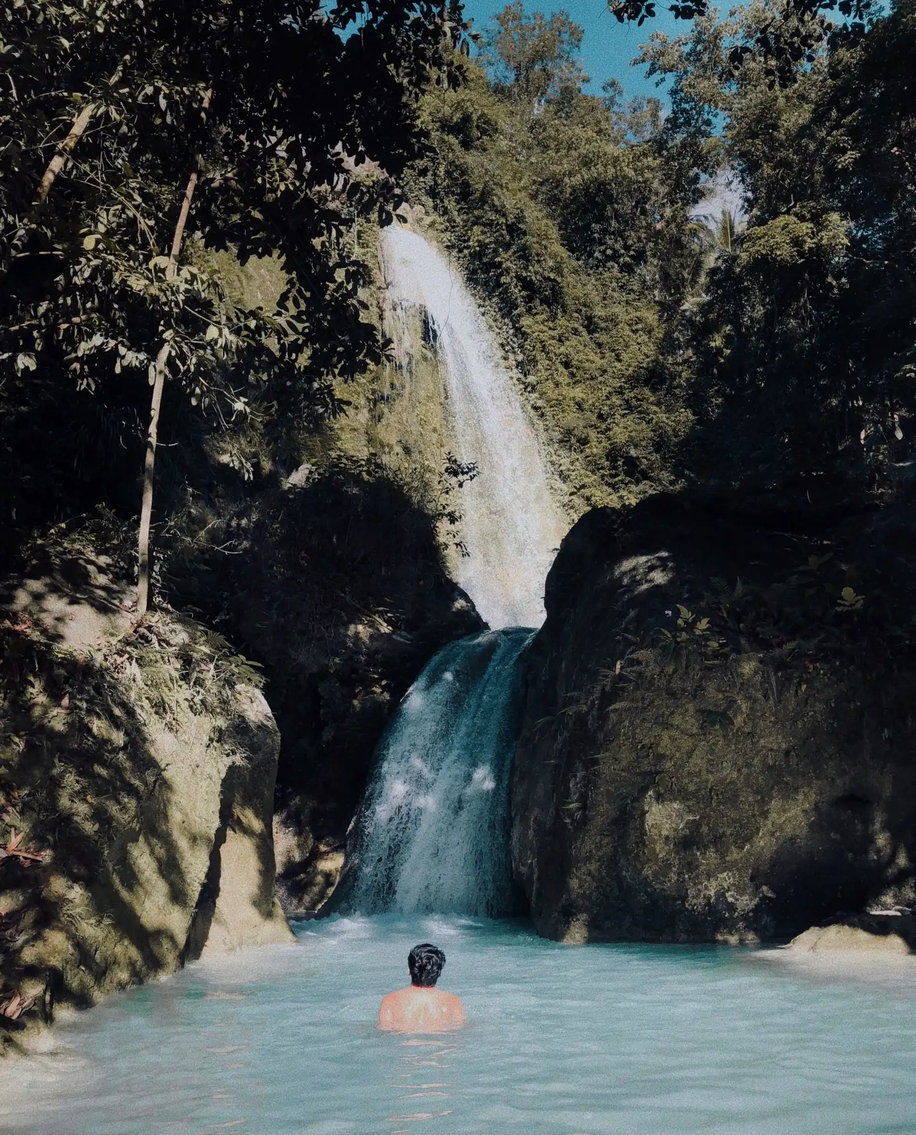
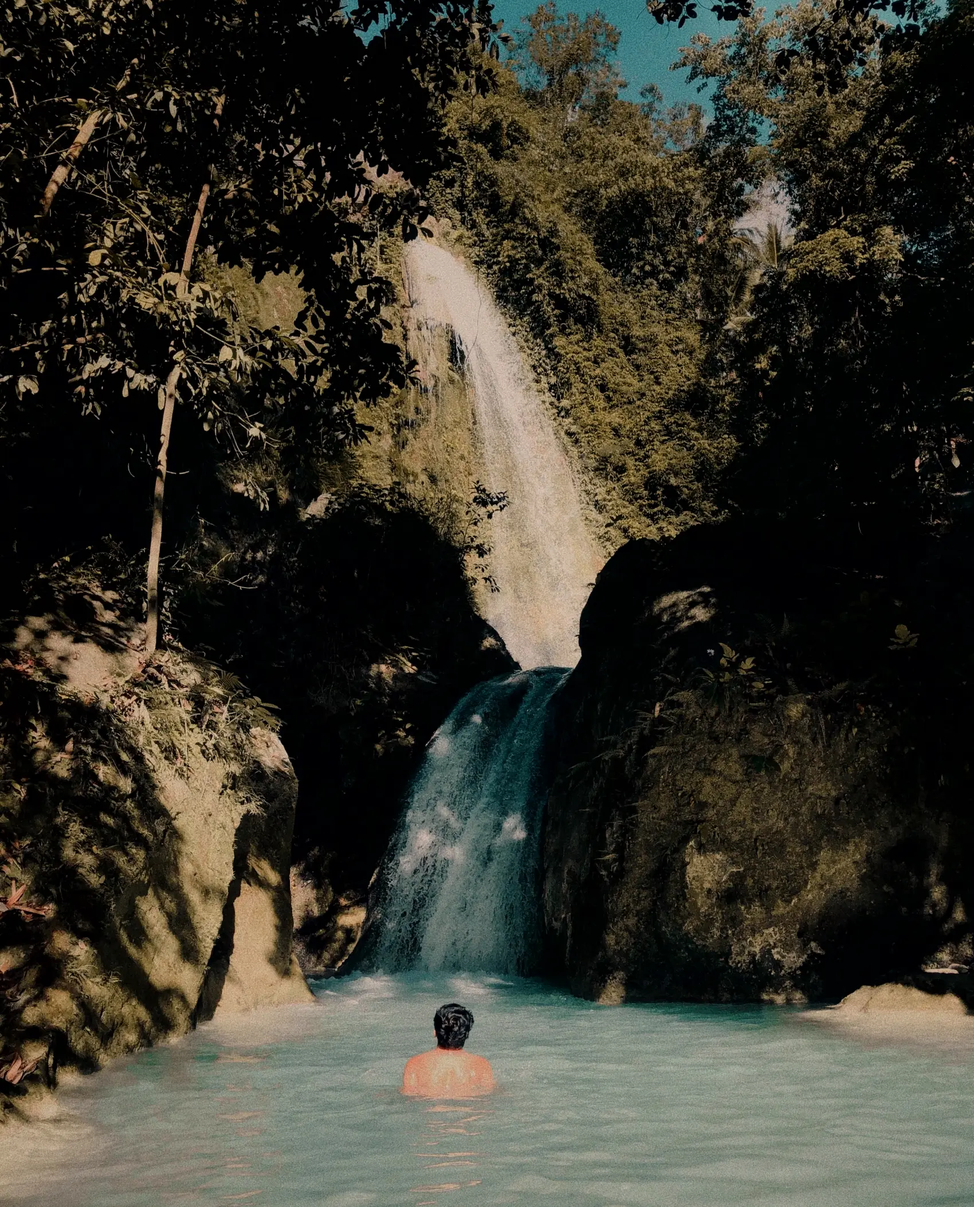
Execute the image system: 7 visuals, 1:1, one grade
Per HotelCompanion__Image_System.md.

Re-fetched at w2560 and re-encoded: giant-tree q46 -> q72/1700 (836KB),
waterfall-swim q54 -> q72/1700 (510KB). Both were used full-bleed and
read soft. Dense foliage will not compress further without visible
artefacts, so 1700px is where quality held.

The single warm-cinematic grade, applied identically to all five stills
via ffmpeg so the set reads as one art-directed world rather than five
stock photos: colortemperature=4700 mix=0.85 for the copper white
balance, eq contrast=1.10 saturation=1.06 brightness=-0.015 for the
lift. Darkening stays in CSS — ~50% centre rising to 90% at the
feathered edges, replacing the previous 16% centre.

Placement is now 1:1 across seven distinct full-bleed visuals:
  hero-coastal-sunset  Home hero (video)
  giant-tree           Home breather
  section-tropical-beach Home mid-page pause (video)
  beach-golden         Home warm breather
  waterfall-swim       Platform — the single breather
  waterfall-lagoon     Enterprise
  beach-dusk-walk      Company emotional peak

Deleted rather than repeated: Platform's second breather and Solutions'
breather. Solutions keeps its existing lobby hero bed.

CTA bands are now darkened stills on every page. Home and Companion OS
were re-running cta-beach-aerial, and Companion OS was re-running
section-tropical-beach — so two of the seven cinematic videos were
appearing three and two times respectively. Video count is now exactly
[…]

diff --git a/src/components/cds/Breather.tsx b/src/components/cds/Breather.tsx
@@ -19,7 +19,7 @@ export function Breather({
   video,
   line,
   height = 'clamp(220px, 38vh, 420px)',
-  darken = 0.16,
+  darken = 0.5,
 }: {
   /** Path under /public, e.g. /assets/breathers/waterfall-swim.webp */
   image: string
@@ -114,10 +114,11 @@ export function Breather({
       <div
         className="absolute inset-0"
         style={{
-          // Only the top and bottom edges are feathered, so the band melts
-          // into the sections either side while the centre stays essentially
-          // uncovered. The first pass scrimmed the middle into a black gap.
-          background: `linear-gradient(180deg, rgba(10,8,7,0.97) 0%, rgba(10,8,7,${darken}) 26%, rgba(10,8,7,${darken}) 74%, rgba(10,8,7,0.97) 100%)`,
+          // The image-system grade: ~50% over the centre rising to ~90% at the
+          // feathered top and bottom edges. The images themselves carry a warm
+          // copper white-balance and a contrast lift, so at this depth they
+          // read as one art-directed world rather than as darkened stock.
+          background: `linear-gradient(180deg, rgba(10,8,7,0.9) 0%, rgba(10,8,7,${darken}) 30%, rgba(10,8,7,${darken}) 70%, rgba(10,8,7,0.9) 100%)`,
         }}
       />
       {line && (

diff --git a/src/app/HomeClient.tsx b/src/app/HomeClient.tsx
@@ -302,7 +302,7 @@ export default function HomeClient() {
         </div>
       </Section>
 
-      <Breather image="/assets/breathers/beach-golden.webp" video="section-tropical-beach" height="clamp(280px, 52vh, 560px)" />
+      <Breather image="/assets/breathers/beach-golden.webp" video="section-tropical-beach" height="clamp(280px, 44vh, 520px)" />
 
       {/* 10 · BOUNDARIES {#home-what-it-is-not-teaser} — statement + link to Enterprise */}
       <Section eyebrow="12 · BOUNDARIES" variant="surface-1" tight>
@@ -355,7 +355,7 @@ export default function HomeClient() {
       </Section>
 
       {/* 13 · FINAL CTA {#home-final-cta} — warm media band */}
-      <MediaBed video="cta-beach-aerial" poster="/assets/img/cta-beach-aerial-poster.webp" scrim={0.72}>
+      <MediaBed poster="/assets/img/ambient-palms-night.webp" scrim={0.72}>
         <section className="py-24 md:py-36">
           <div className="container-rc">
             <Reveal>

diff --git a/src/app/solutions/SolutionsClient.tsx b/src/app/solutions/SolutionsClient.tsx
@@ -265,8 +265,6 @@ export default function SolutionsClient() {
       </Section>
 
       {/* 03 · COMPANION OS {#solutions-companion-os} — capability surface */}
-      <Breather image="/assets/breathers/beach-golden.webp" />
-
       <Section
         id="solutions-companion-os"
         eyebrow="03 · COMPANION OS"
@@ -298,7 +296,7 @@ export default function SolutionsClient() {
       </Section>
 
       {/* 04 · NEXT STEP {#solutions-final-cta} — warm media band */}
-      <MediaBed video="hero-coastal-sunset" poster="/assets/img/hero-coastal-sunset-poster.webp" scrim={0.72}>
+      <MediaBed poster="/assets/img/lobby-modern.webp" scrim={0.72}>
         <section id="solutions-final-cta" className="py-24 md:py-36">
           <div className="container-rc">
             <Reveal>

diff --git a/src/app/platform/PlatformClient.tsx b/src/app/platform/PlatformClient.tsx
@@ -471,8 +471,6 @@ export default function PlatformClient() {
       </Section>
 
       {/* 12 · MULTI-PROPERTY {#platform-multi-property} */}
-      <Breather image="/assets/breathers/beach-dusk-walk.webp" />
-
       <Section
         id="platform-multi-property"
         eyebrow="12 · MULTI-PROPERTY"
@@ -530,7 +528,7 @@ export default function PlatformClient() {
       </Section>
 
       {/* 15 · NEXT STEP {#platform-final-cta} — warm media band */}
-      <MediaBed video="cta-beach-aerial" poster="/assets/img/cta-beach-aerial-poster.webp" scrim={0.72}>
+      <MediaBed poster="/assets/img/hero-poolside.webp" scrim={0.72}>
         <section id="platform-final-cta" className="py-24 md:py-36">
           <div className="container-rc">
             <Reveal>

diff --git a/src/app/companion-os/CompanionOsClient.tsx b/src/app/companion-os/CompanionOsClient.tsx
@@ -158,7 +158,6 @@ export default function CompanionOsClient() {
 
       {/* HERO {#companionos-hero} — over the tropical loop, text left */}
       <MediaBed
-        video="section-tropical-beach"
         poster="/assets/img/section-tropical-beach-poster.webp"
         scrim={0.68}
       >
@@ -389,7 +388,7 @@ export default function CompanionOsClient() {
       </Section>
 
       {/* 12 · NEXT STEP {#companionos-final-cta} — CTA leads back to Hotel Companion */}
-      <MediaBed video="cta-beach-aerial" poster="/assets/img/cta-beach-aerial-poster.webp" scrim={0.72}>
+      <MediaBed poster="/assets/img/platform-pool-night.webp" scrim={0.72}>
         <section className="py-24 md:py-36">
           <div className="container-rc">
             <Reveal>

diff --git a/src/app/company/CompanyClient.tsx b/src/app/company/CompanyClient.tsx
@@ -180,7 +180,7 @@ export default function CompanyClient() {
       ))}
 
       {/* {#company-contact} */}
-      <Breather image="/assets/breathers/beach-dusk-walk.webp" video="hero-coastal-sunset" height="clamp(280px, 52vh, 560px)" />
+      <Breather image="/assets/breathers/beach-dusk-walk.webp" height="clamp(280px, 44vh, 520px)" />
 
       <Section id="contact" eyebrow="09 · CONTACT" title={c.contact.title} variant="surface-2">
         <div className="mt-8 body-lead" style={{ maxWidth: '56ch' }}>

diff --git a/src/app/enterprise/EnterpriseClient.tsx b/src/app/enterprise/EnterpriseClient.tsx
@@ -386,7 +386,7 @@ export default function EnterpriseClient() {
       </Section>
 
       {/* 15 · NEXT STEP {#enterprise-final-cta} — warm media band */}
-      <MediaBed video="section-tropical-beach" poster="/assets/img/section-tropical-beach-poster.webp" scrim={0.72}>
+      <MediaBed poster="/assets/img/company-reception.webp" scrim={0.72}>
         <section className="py-24 md:py-36">
           <div className="container-rc">
             <Reveal>

diff --git a/src/app/globals.css b/src/app/globals.css
@@ -963,3 +963,5 @@ body {
 /* r2 */
 
 /* v3 */
+
+/* g */

diff --git a/CREDITS.md b/CREDITS.md
@@ -65,26 +65,52 @@ locally with ffmpeg before being committed:
 
 ## Breather bands (`public/assets/breathers/`)
 
-Curated cinematic stills from Pexels (Pexels License — free to use, no
-attribution required; recorded anyway). Fetched at w=2560, re-encoded to WebP.
-The foliage-heavy frames needed a harder pass: they are high-frequency and sit
-behind a scrim, so quality was traded for weight.
+Executed per `HotelCompanion__Image_System.md`. Five Pexels stills (Pexels
+License), each re-fetched at w=2560, **graded**, then encoded to WebP.
 
-| File | Source | Encode | Mood |
+**The grade** (ffmpeg, identical for all five, so the set reads as one
+art-directed world): `colortemperature=4700 mix=0.85` for the warm/copper white
+balance, `eq=contrast=1.10:saturation=1.06:brightness=-0.015` for the contrast
+lift. The darkening is applied in CSS, not baked in: ~50% over the centre
+rising to 90% at the feathered top and bottom edges.
+
+| File | Pexels | Encode | Temperature | Slot |
+| --- | --- | --- | --- | --- |
+| giant-tree.webp | 4618623 | 1700 / q72 | green · awe | Home, after the conversation beat |
+| beach-golden.webp | 3605451 | 2000 / q72 | warm | Home, the video pause poster |
+| waterfall-swim.webp | 2410860 | 1700 / q72 | cool · adventure | Platform, the single breather |
+| waterfall-lagoon.webp | 8521850 | 2000 / q72 | cool · social | Enterprise |
+| beach-dusk-walk.webp | 37804743 | 2000 / q72 | warm · romantic | Company, the emotional peak |
+
+giant-tree and waterfall-swim were previously shipped at q46/q54 and read soft
+full-bleed. They are the two heaviest files even after re-encoding (836KB and
+510KB) because dense foliage does not compress; 1700px was the point where
+quality held and weight stayed defensible.
+
+`public/assets/ui/beach-akumal.webp` (pexels 36111990) is the in-device answer
+card for "Best beach near here?" — a small, subject-legible role, deliberately
+not one of the seven full-bleed visuals.
+
+## The seven full-bleed visuals, 1:1
+
+| # | Visual | Where | Type |
 | --- | --- | --- | --- |
-| giant-tree.webp | pexels 4618623 | 1600 / q46 | green · awe |
-| waterfall-swim.webp | pexels 2410860 | 1600 / q54 | green |
-| waterfall-lagoon.webp | pexels 8521850 | 1920 / q76 | green |
-| beach-dusk-walk.webp | pexels 37804743 | 1920 / q76 | warm |
-| beach-golden.webp | pexels 3605451 | 1920 / q76 | warm |
+| 1 | hero-coastal-sunset | Home hero bed | video |
+| 2 | giant-tree | Home breather | still |
+| 3 | section-tropical-beach | Home mid-page pause | video |
+| 4 | beach-golden | Home warm breather (pause poster) | still |
+| 5 | waterfall-swim | Platform breather | still |
+| 6 | waterfall-lagoon | Enterprise breather | still |
+| 7 | beach-dusk-walk | Company emotional peak | still |
 
-`public/assets/ui/beach-akumal.webp` (pexels 36111990, 900px / q72) is the
-in-device answer card for "Best beach near here?" — the device previously
-showed a poolside photo for a beach question.
+Zero repeats. Solutions' breather and Platform's second breather were **deleted**
+rather than repeat a visual, per the plan's "if a page would need an 8th band,
+delete the band".
 
-Retired this round: the aqua-sandbar/aerial set (aerial-seascape,
-aerial-islands, tropical-bay, archipelago, white-sandbar) and the reused
-pool/lobby fallbacks.
+CTA bands are darkened stills, never a second run of a cinematic video:
+Home → ambient-palms-night, Platform → hero-poolside, Solutions → lobby-modern,
+Enterprise → company-reception, Companion OS → platform-pool-night.
 
-**Still missing:** `pexels 6861` (pool-golden-hour) 404s. Not needed now — the
-warm slots are covered by the two beach walks.
+Retired as standalone bands: the 9–25KB video-poster stills
+(cta-beach-aerial-poster, hero-coastal-sunset-poster,
+section-tropical-beach-poster). They remain only as posters for their own videos.
